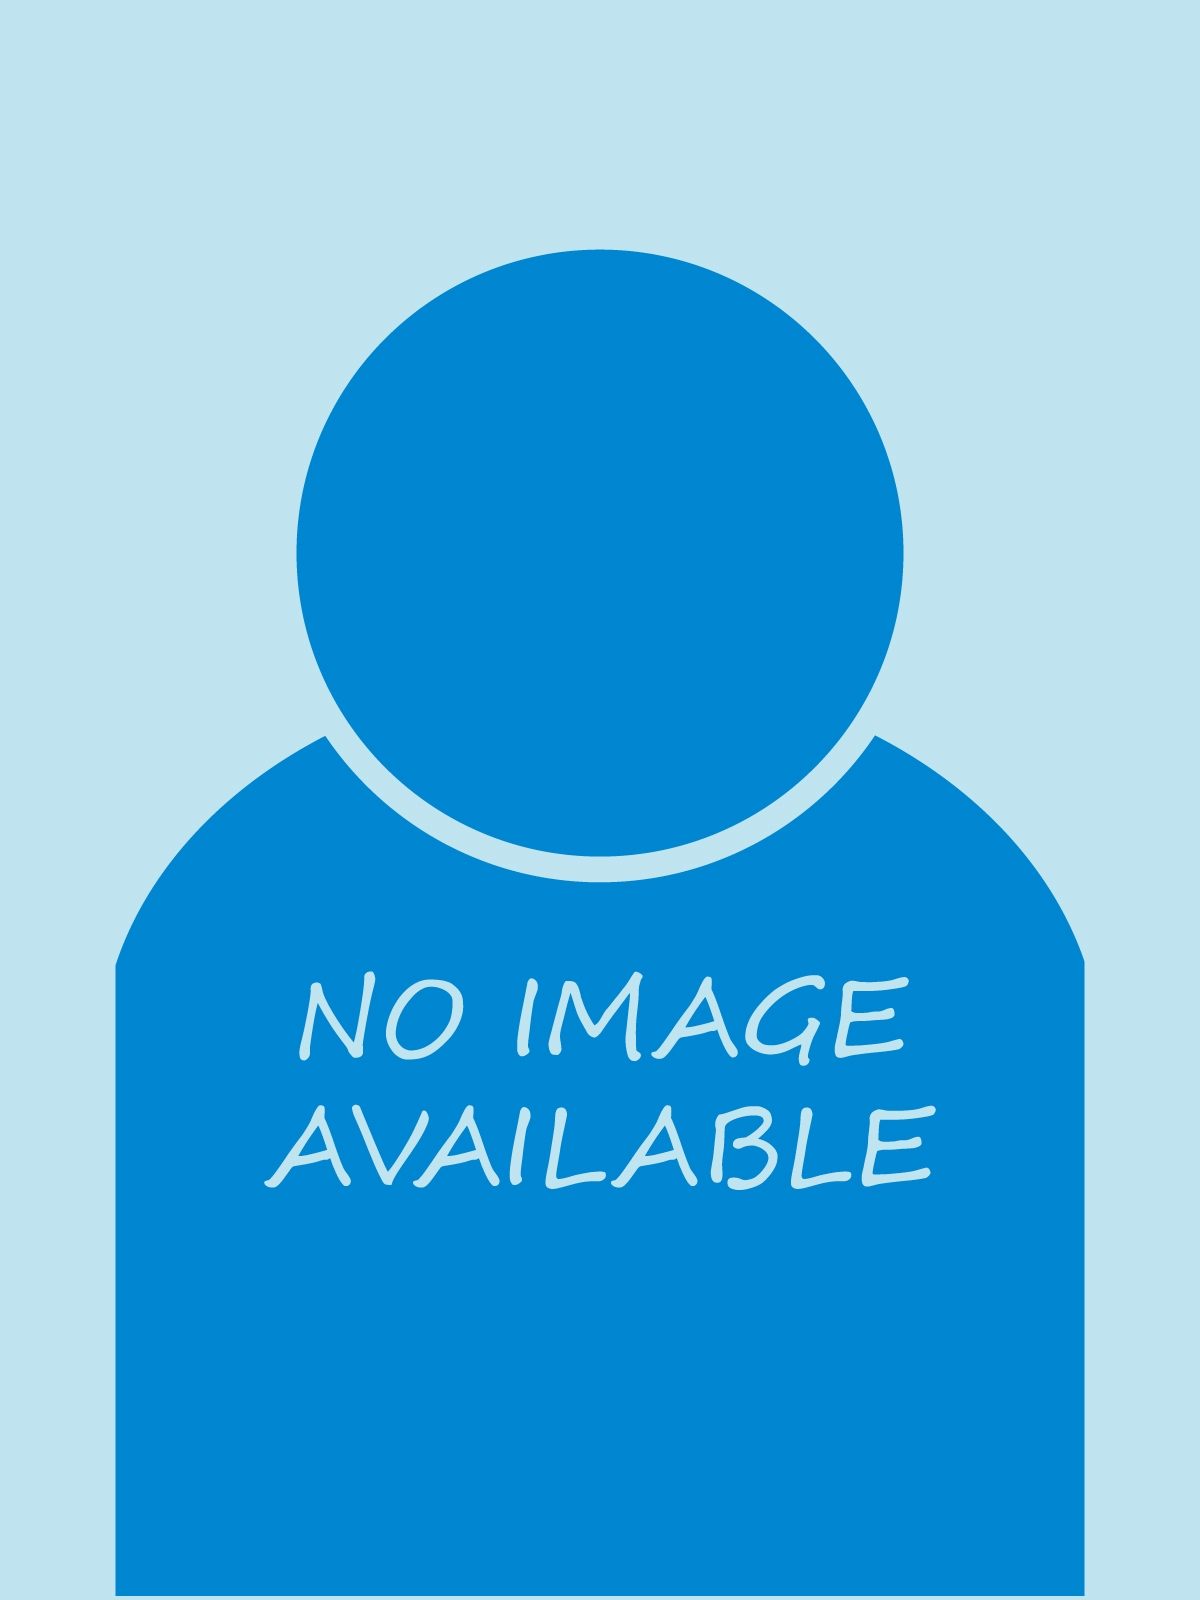
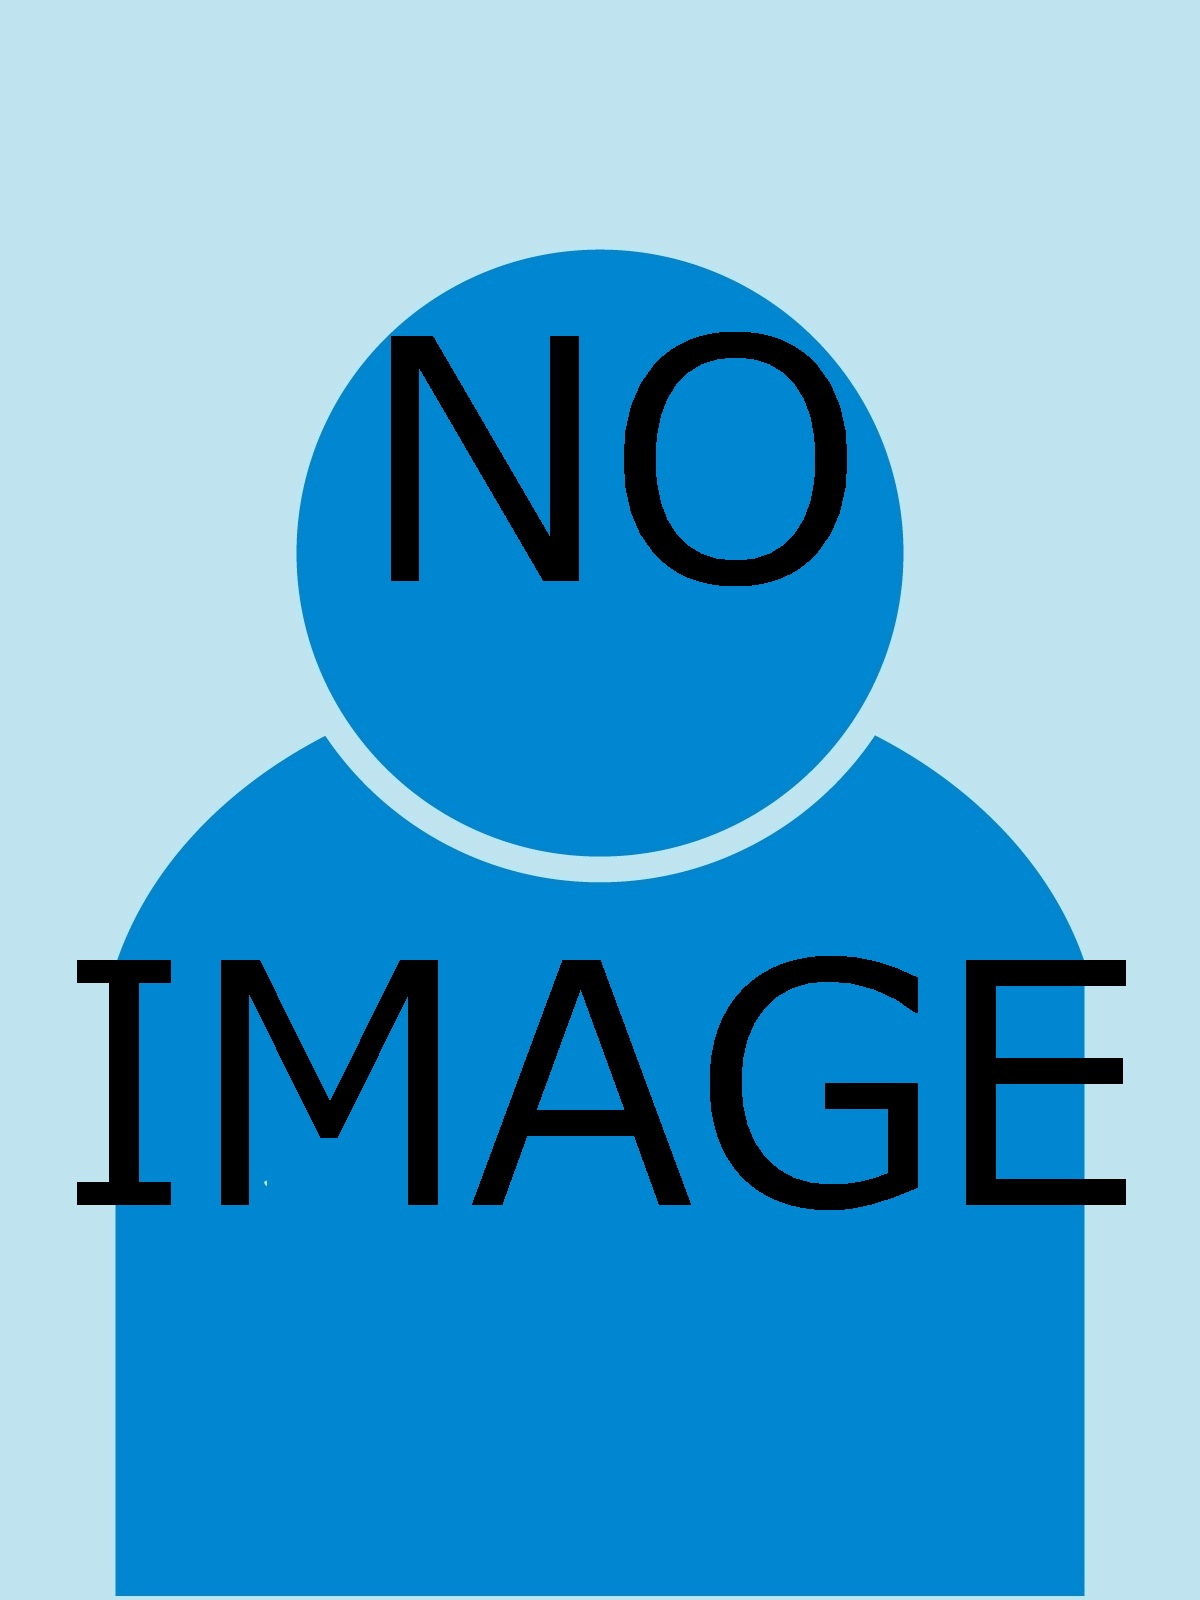
noimage画像を修正。

diff --git a/src/app/constant.ts b/src/app/constant.ts
@@ -1,4 +1,4 @@
 export const noname = 'noname';
-export const noImageUrl = 'https://firebasestorage.googleapis.com/v0/b/authenticationapp-dc.appspot.com/o/noimage.jpg?alt=media&token=a6aa429c-ab44-4a1f-ab13-72e8dd034886';
+export const noImageUrl = 'https://firebasestorage.googleapis.com/v0/b/authenticationapp-dc.appspot.com/o/noimage.jpg?alt=media&token=b7392c69-fa0c-4e19-af07-6dd1444e7267';
 export const noEMail = '未設定';
 export const noPhoneNumber = '未設定';
